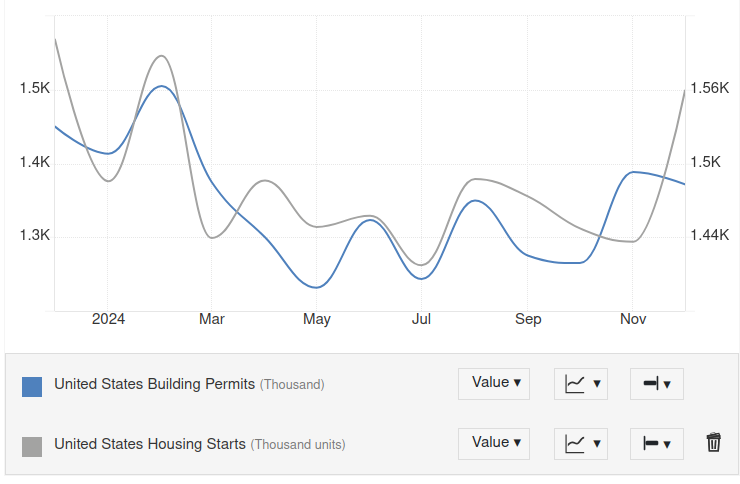
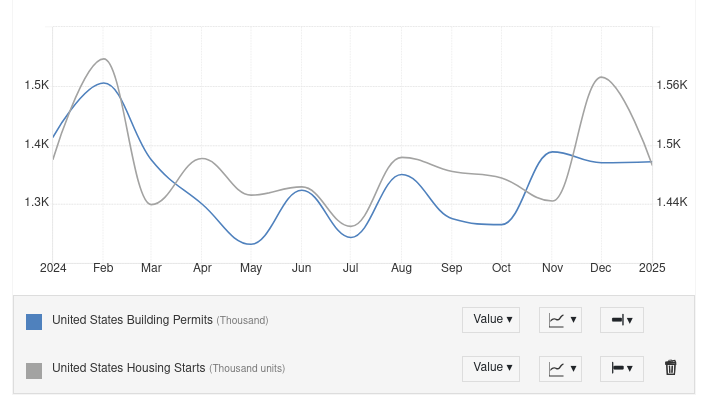
new bld permits

diff --git a/crablox/hauls/h_bld_permits.py b/crablox/hauls/h_bld_permits.py
@@ -16,7 +16,13 @@ def content():
             """
 ### United States Building Permits
 
-17 January 2025
+#### 19 February 2025
+
+Building permits in the United States inched higher by 0.1% to a seasonally adjusted annualized rate of 1.483 million in January of 2025, firmly above market expectations that they would fall to 1.46 million, according to a preliminary estimate. Permits for housing with two to four units surged by 13.2% from the earlier month to 60 thousand, offsetting the 1.4% drop in housing with five or more units (to 427 thousand), while permits for housing with one unit remained unchanged at 996 thousand. Among different regions, permits rose in the West (2.3% to 316 thousand) and the Midwest (1.8% to 223,000). These outweighed the marginal drop in the South (-0.1% to 806 thousand) and the sharper drop in the Northeast (-6.1% to 138 thousand).
+
+_source: U.S. Census Bureau_
+
+#### 17 January 2025
 
 ##### 🏗 Housing Starts: Analysts Called It Wrong
 
